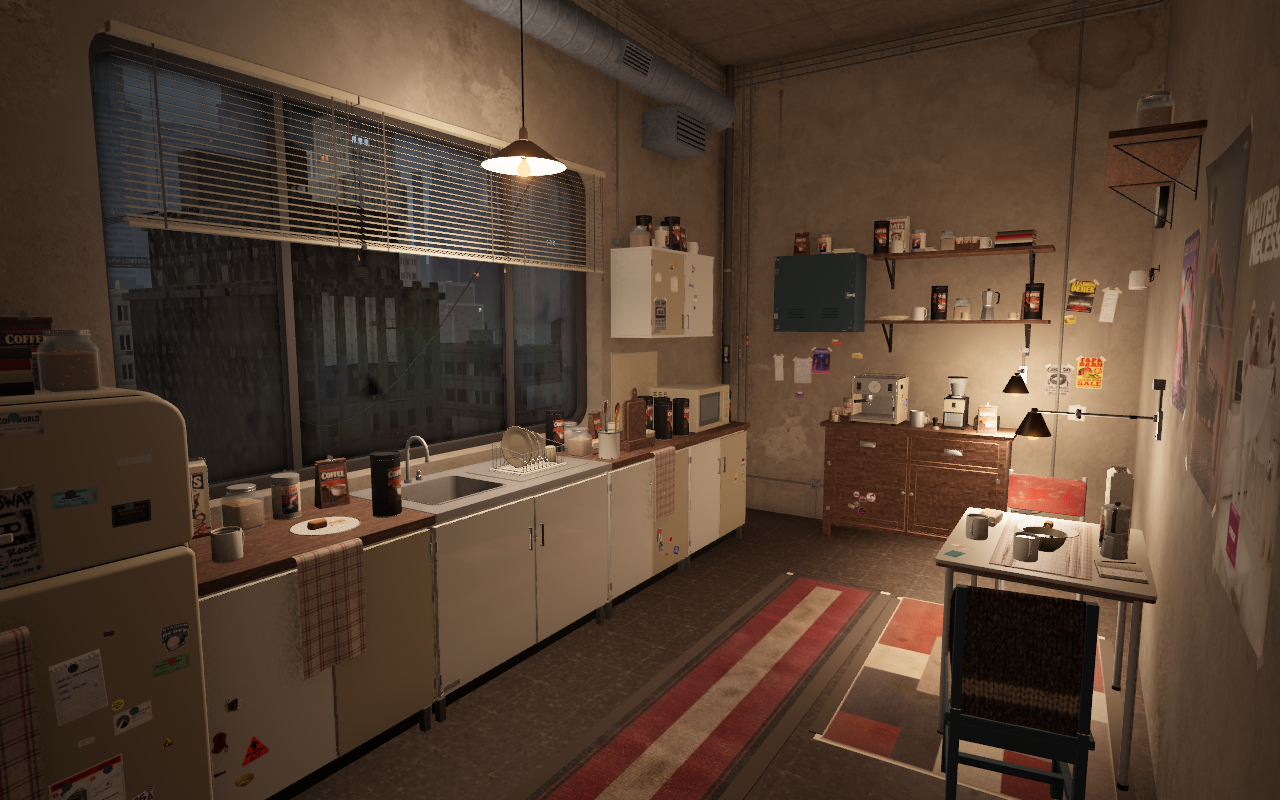
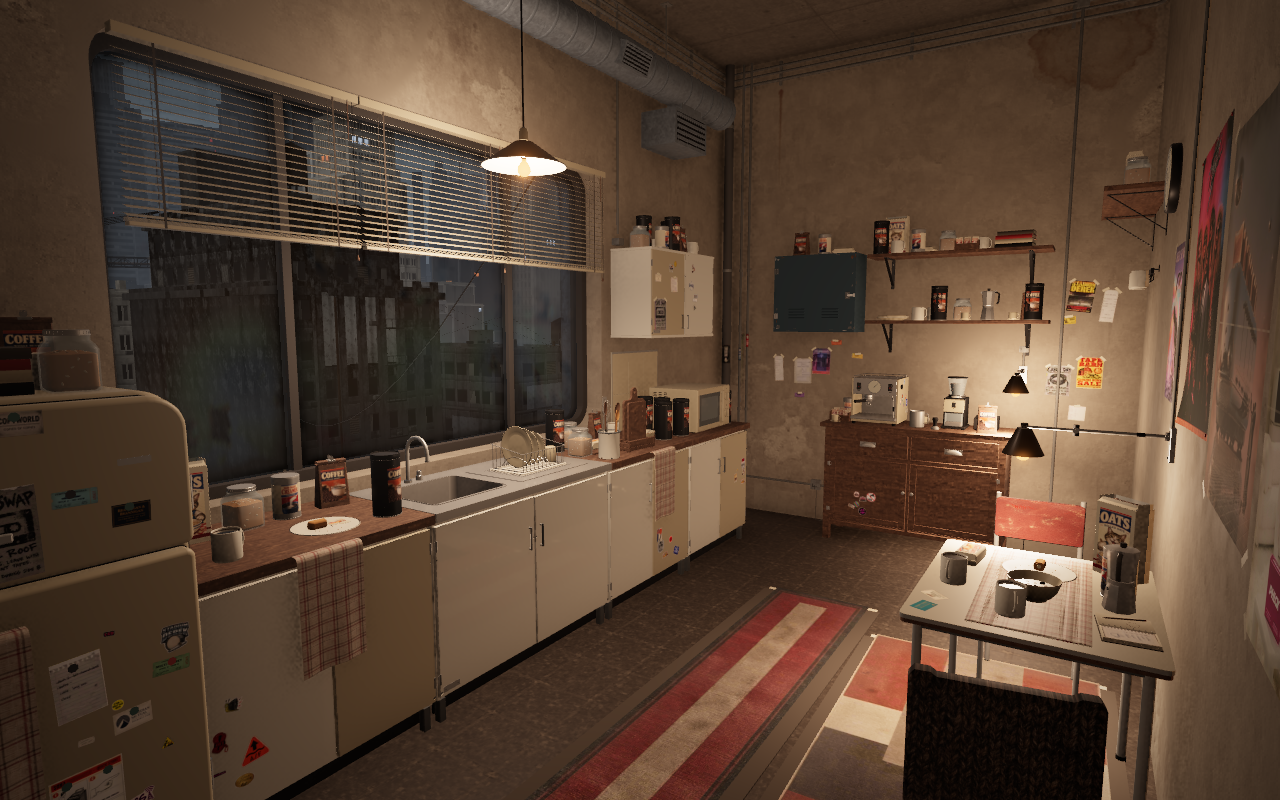
Show closer kitchen seats and final loose knitted throw

Changed region(s): [[0.5312, 0.125, 1.0, 1.0], [0.4688, 0.9375, 0.5625, 1.0], [0.0938, 0.125, 0.1875, 0.1562]]

diff --git a/concepts/kitchen-comfort-2026-10-09/index.html b/concepts/kitchen-comfort-2026-10-09/index.html
@@ -26,7 +26,7 @@
   <p>Vibe collected and repaired this room herself. These concepts add places to settle in, useful rescued storage, illustrated pantry packs and traces of two girls sharing their daily life.</p>
   <p class="hint">Placement rule for every direction: furnishings find suitable walls and floor space; loose items choose compatible worktops, dining surfaces, shelves and hooks. Changing the room layout must repack them onto the available surfaces. The pictures describe the mood and useful groups, rather than fixed object coordinates.</p>
   <div class="notice">
-    <p><strong>Matching the approved coffee hangout.</strong> The reference below is the target. Fuller storage, larger wall art, personal papers, faded plaid and repaired furniture are now in the matching pass. Standing boards, a utensil crock and sixteen taller reused tins are now finished and placed by their surface rules.</p>
+    <p><strong>Matching the approved coffee hangout.</strong> The reference below is the target. Fuller storage, larger wall art, personal papers, faded plaid and repaired furniture are in the actual room. Standing boards, a utensil crock and sixteen taller reused tins are finished. The latest pass brings the seats closer to the working counter, turns the illustrated oat carton toward the room and adds a loose knitted throw and worn fridge edges.</p>
     <p class="hint">Only shelf-stable food and drinks: oats, coffee, powdered non-dairy creamer, sugar and long-life cakes. No plants. Loose items choose compatible surfaces and reshuffle after furniture edits. The cloth shares the existing atlas, with unchanged GPU memory.</p>
     <p><a href="https://lcs-rooms.up.railway.app/?t=19">Open the live kitchen</a> · <a href="../../props/?item=kitchen-chair-blue">Inspect the catalog models</a></p>
   </div>
@@ -41,9 +41,9 @@
     <h2>Reference and current 3D progress</h2>
     <p>The room is being judged against this picture. Finished asset counts and the automatic comfort score do not measure the visual match.</p>
     <figure><a href="approved-target.png"><img src="approved-target.png" alt="Approved makeshift coffee kitchen reference with crowded pantry shelves, plaid towels, a knitted chair drape, personal papers and warm shaded lamps." width="1280" height="800" fetchpriority="high"></a><figcaption>Approved target · generated concept art.</figcaption></figure>
-    <figure><a href="progress-a.png"><img src="progress-a.png" alt="Current native 3D kitchen matching pass with fuller storage, personal walls, plaid fridge and counter towels, repaired cupboards and a full knitted chair back." width="1280" height="800" loading="lazy"></a><figcaption>Current 3D implementation · entrance view · fuller storage and final counter props.</figcaption></figure>
+    <figure><a href="progress-a.png"><img src="progress-a.png" alt="Current native 3D kitchen matching pass with fuller storage, personal walls, plaid fridge and counter towels, repaired cupboards and a loose knitted chair throw." width="1280" height="800" loading="lazy"></a><figcaption>Current 3D implementation · entrance view · closer seating, loose knitted throw and illustrated oat carton.</figcaption></figure>
     <figure><a href="progress-b.png"><img src="progress-b.png" alt="Current opposing native 3D kitchen view with illustrated pantry supplies, a shaded table lamp, plaid runner and repaired mismatched chairs." width="1280" height="800" loading="lazy"></a><figcaption>Current 3D implementation · opposing view.</figcaption></figure>
-    <p class="hint">Still being checked against the reference: material character, lighting and the overall visual match. Native GPU pictures at noon, dusk and night have no waiting surface inventory or missing prop models.</p>
+    <p class="hint">The actual room keeps its existing proportions and city. Its light is harder and its broad enamel faces more uniform than the generated reference. Native pictures at noon, dusk and night have a clear doorway, no waiting surface inventory and no missing prop models.</p>
   </section>
   <section id="details">
     <h2>Everyday coffee and leftovers</h2>
